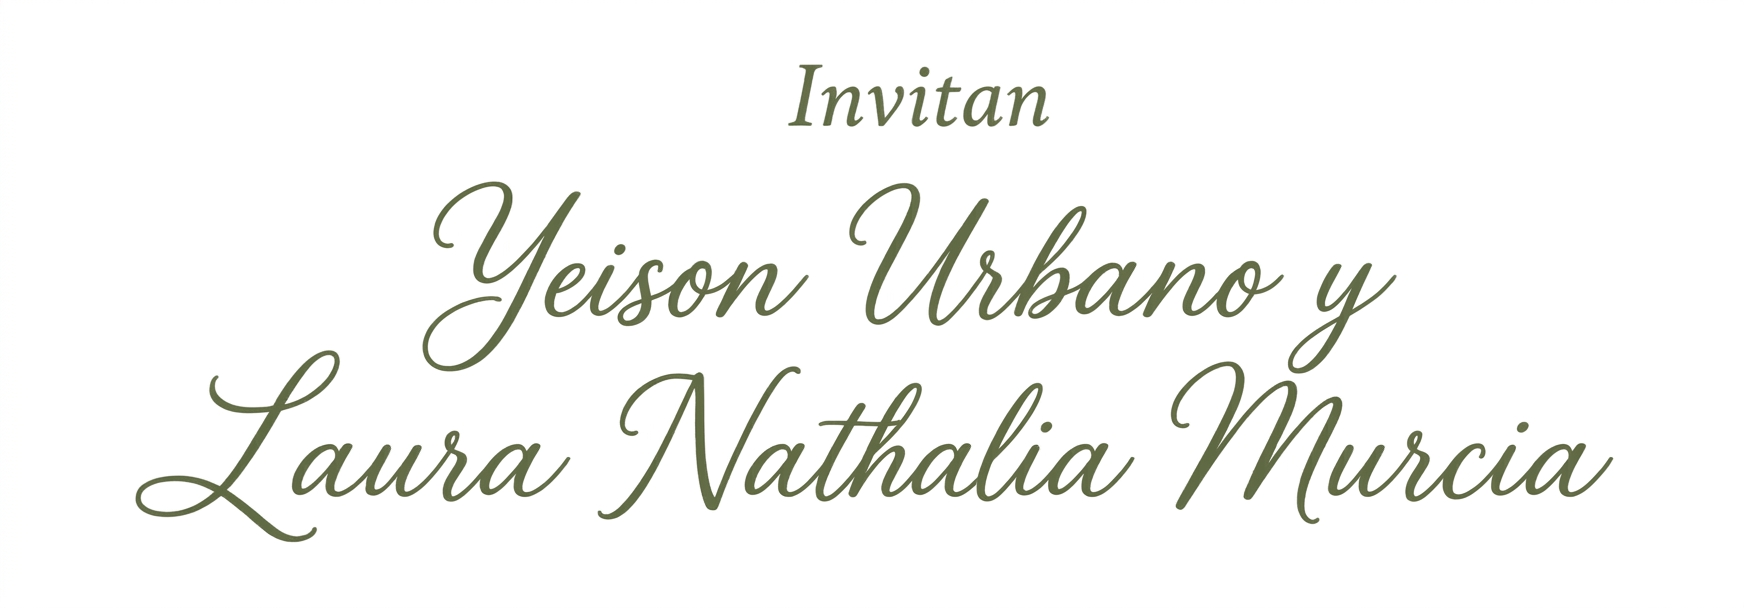
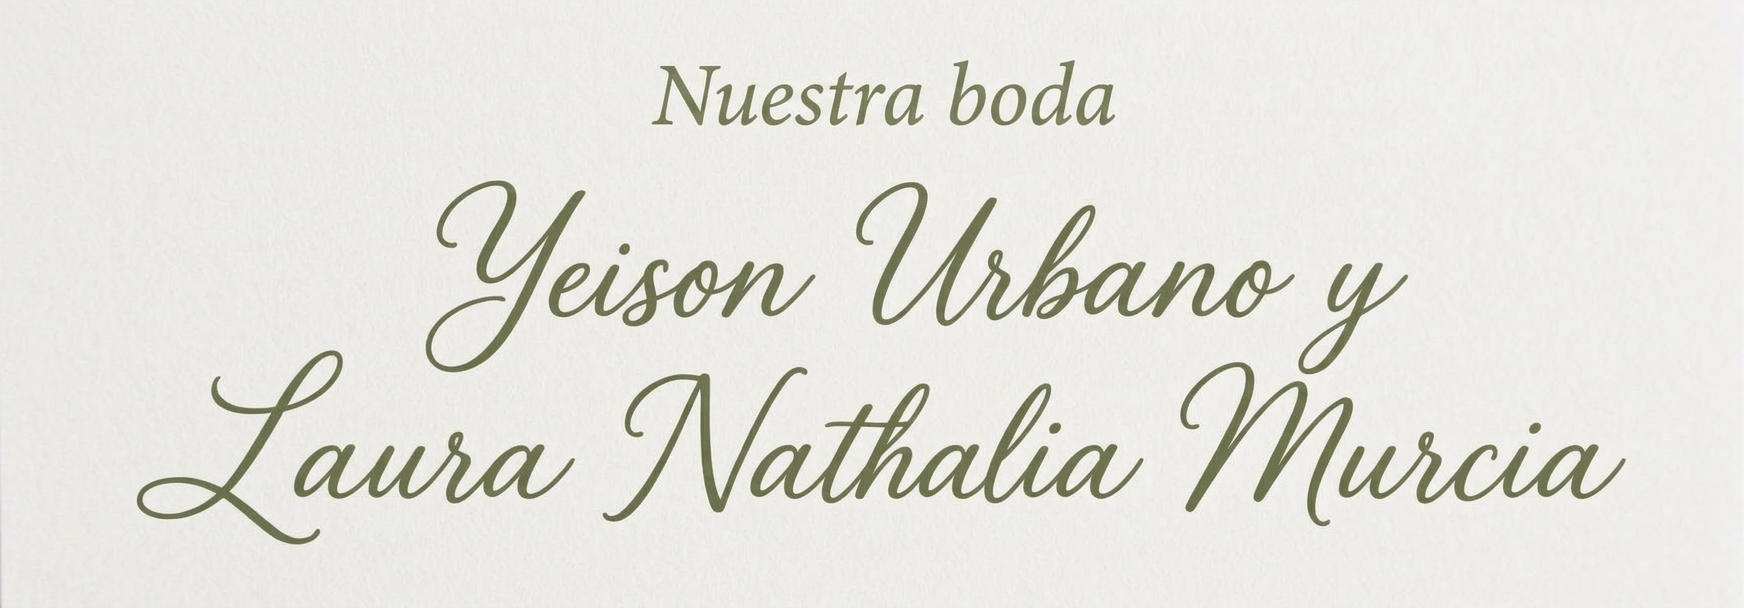
update: changed image in hero width nuestra boda

diff --git a/src/components/sections/Hero.tsx b/src/components/sections/Hero.tsx
@@ -337,7 +337,7 @@ export default function Hero() {
           {/* TEXTO */}
           <div className="flex flex-col leading-none min-w-0">
             <span className="text-xs uppercase tracking-[0.18em] text-[#3E4334]/70">
-              {playing ? "Reproduciendo" : "Nuestra boda"}
+              {playing ? "Reproduciendo" : ""}
             </span>
 
             <span className="text-sm md:text-base font-light tracking-wide whitespace-nowrap">
